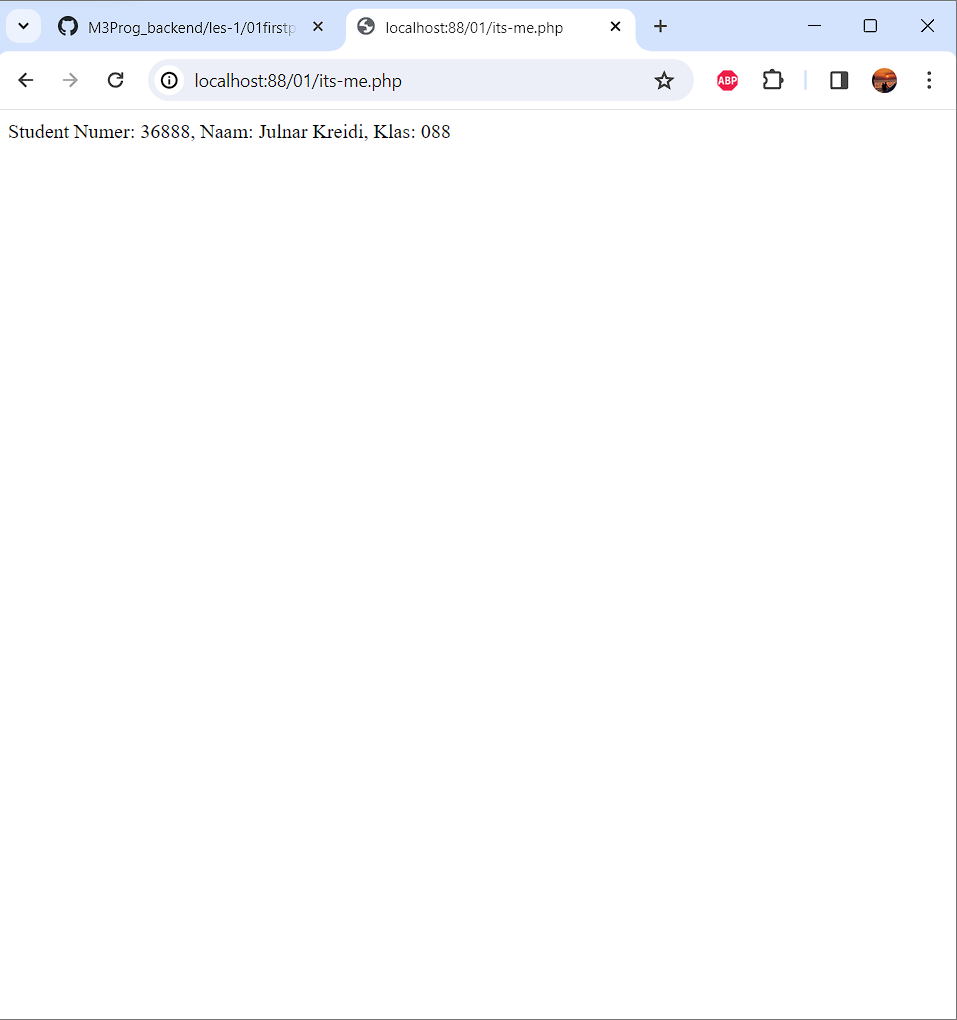
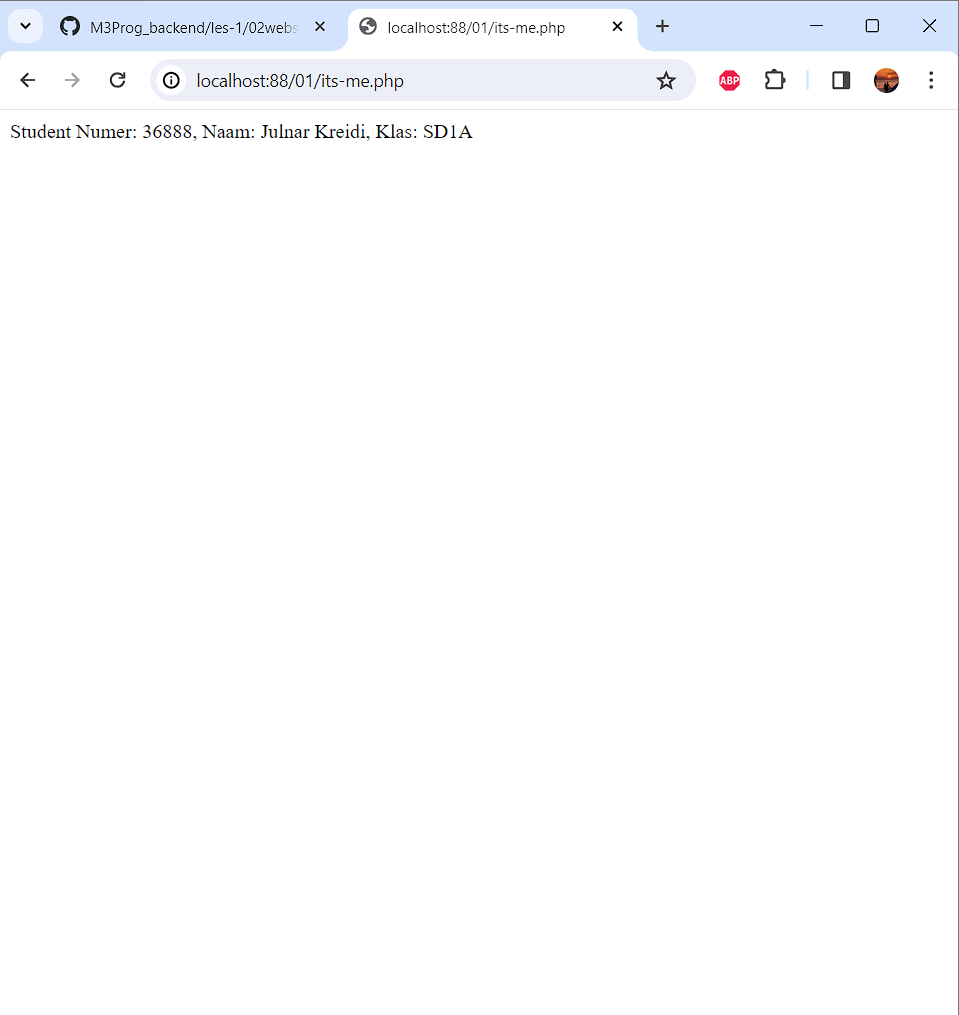
01

diff --git a/m3prog_project/public/01/phphtml.php b/m3prog_project/public/01/phphtml.php
@@ -1,0 +1,14 @@
+<!doctype html>
+<head>
+<title><?php echo "Titel van de pagina" ?></title>
+</head>
+<body>
+    <h2>De datum vandaag is: <?php echo date('d-m-Y')?>, en de tijd is <?php echo date("H:i")?> uur.
+    <p>Tellen kan ook:</p>
+    <ol> 
+    <?php for($i=0; $i < 100; $i++):?>
+        <li><?php echo $i; ?></li>
+    <?php endfor;?>
+    </ol>
+</body>
+</html>

diff --git a/m3prog_project/public/01/its-me.php b/m3prog_project/public/01/its-me.php
@@ -1,5 +1,5 @@
 <?php
 
-echo "Student Numer: 36888, Naam: Julnar Kreidi, Klas: 088"
+echo "Student Numer: 36888, Naam: Julnar Kreidi, Klas: SD1A"
 
 ?>
